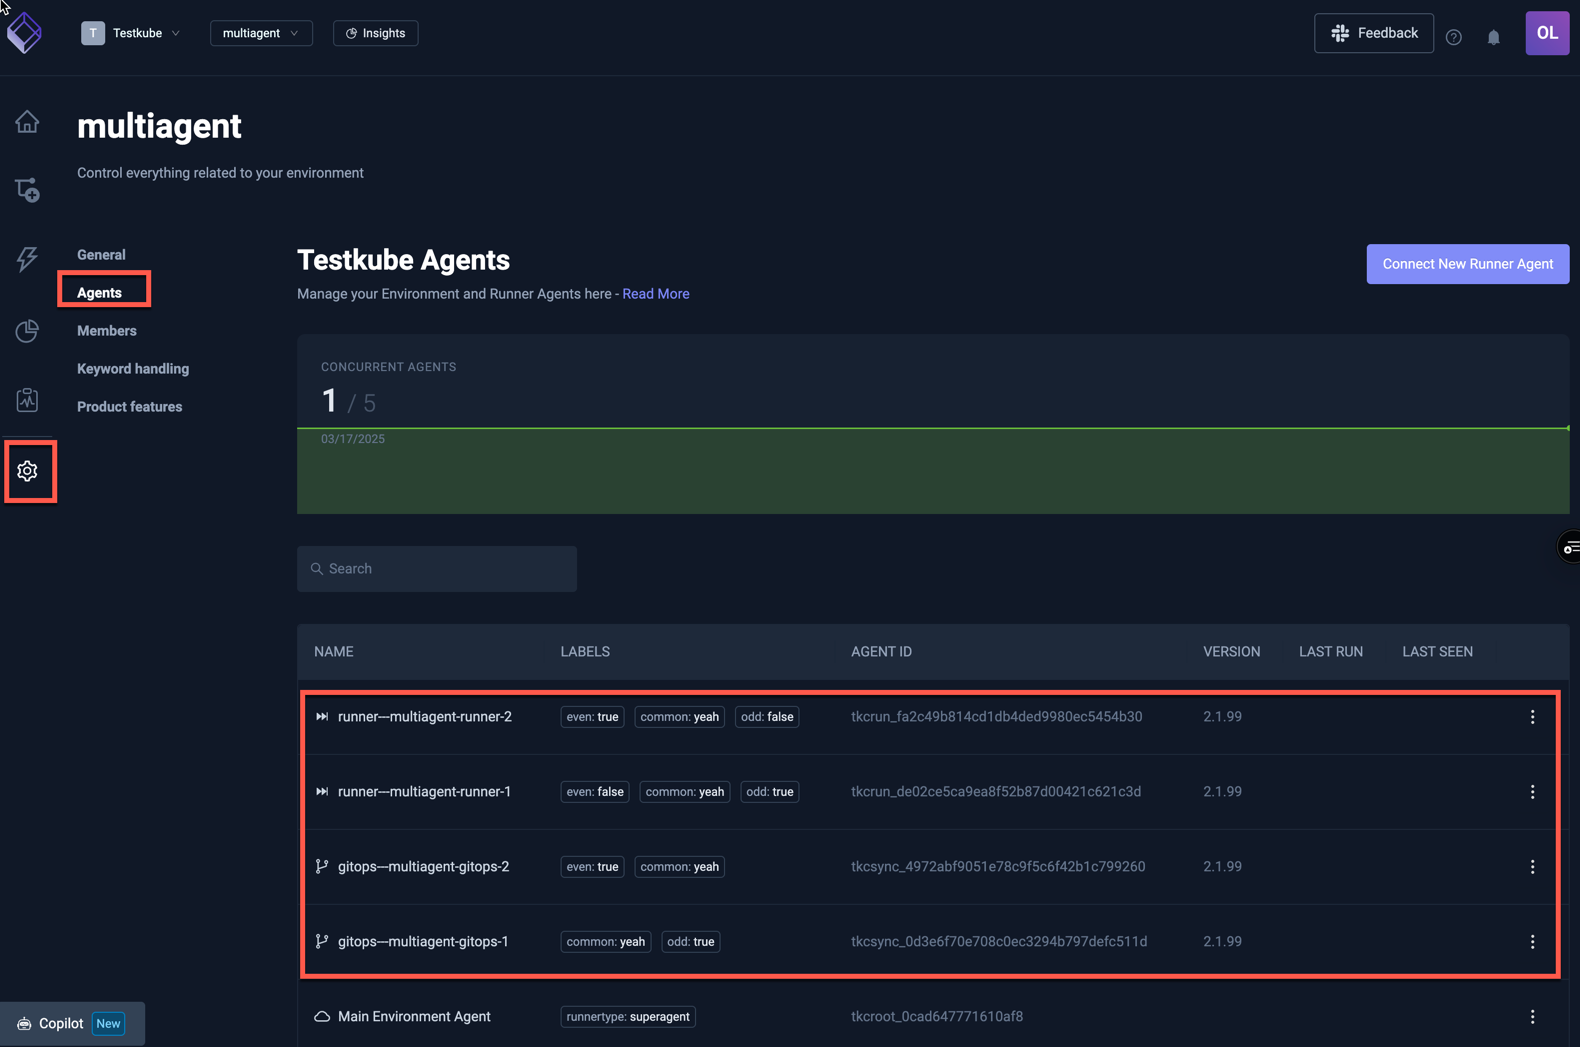
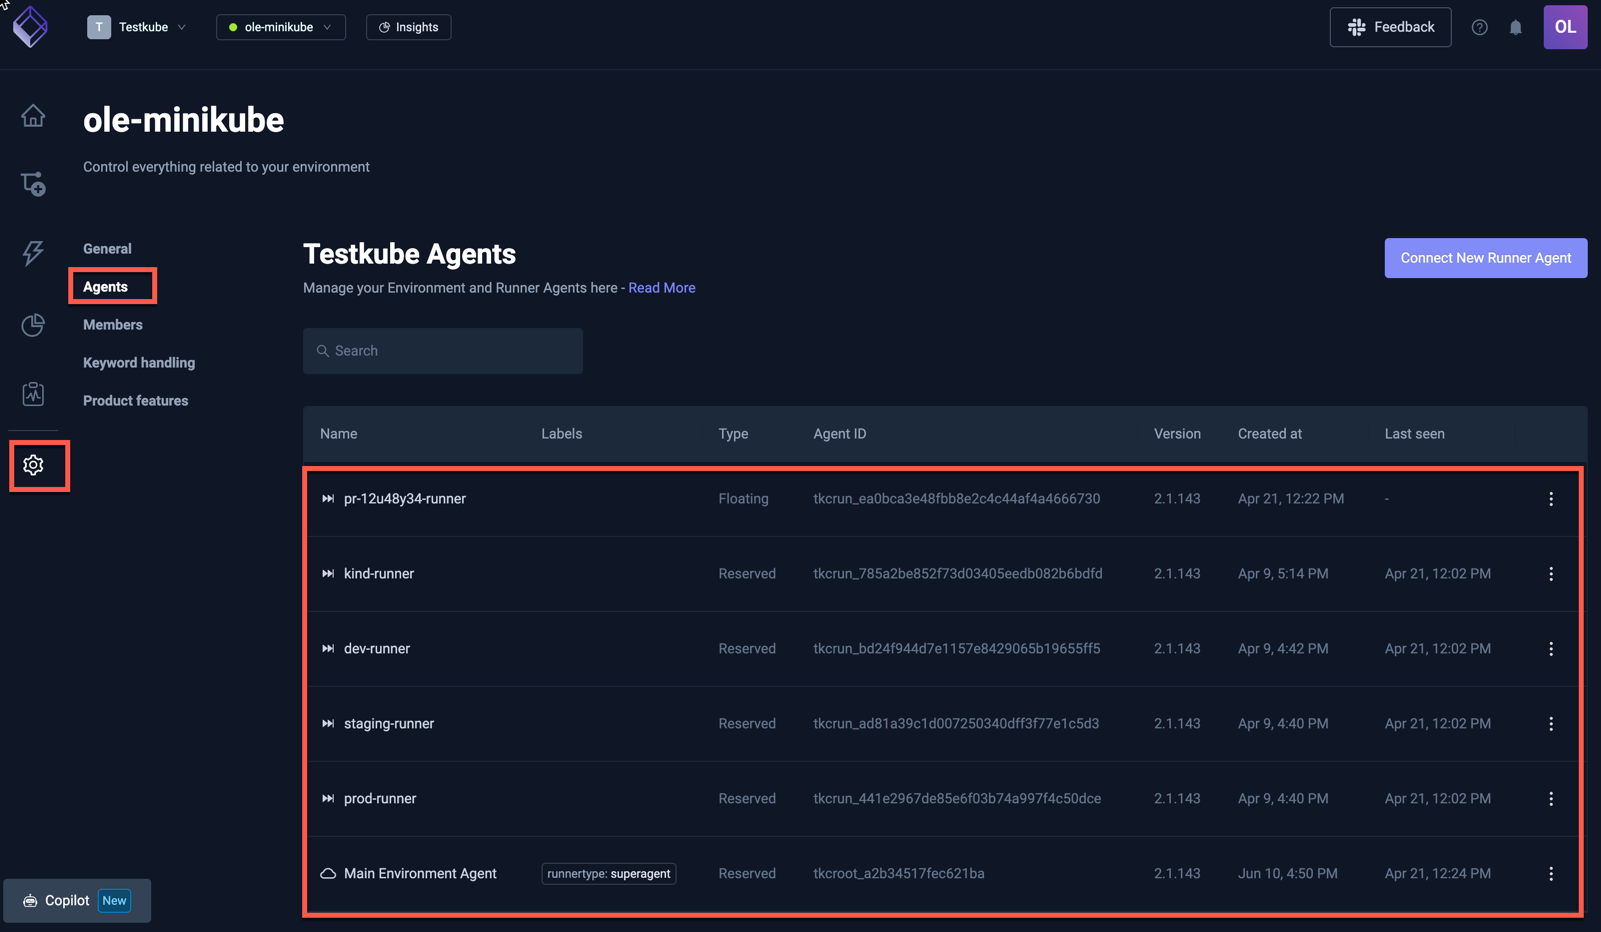
ongoing MA doc improvements..

diff --git a/docs/articles/install/multi-agent.md b/docs/articles/install/multi-agent.md
@@ -1,5 +1,4 @@
-# Multi-Agent Environments 
-
+# Multi-Agent Environments
 
 Testube 2.X introduces the concept of Multi-Agent Environments, which adds two major new capabilities:
 
@@ -225,6 +224,7 @@ definitions:
 
 - **Workflows** - you might want to ensure that a Workflow always runs on a Runner with a specific name or label - [Read More](/articles/test-workflows#runner-target).
 - **Workflow CronJobs** - you might want to target scheduled Workflow Executions to specific Runner(s) - [Read More](/articles/test-workflows#targeting-specific-runners-in-cronjobs).
+- **Workflow `execute` Steps** - you might want Composite Workflows to execute Workflows on specific Runner(s) - [Read More](/articles/test-workflows-test-suites#targeting-specific-runner-agents).
 - **Triggers** - you might want Kubernetes Event Triggers to trigger Workflow Executions on specific Runner(s) - [Read More](/articles/test-triggers#targeting-specific-runners).
 - **Execution CRDs** - you might want an `WorkflowExecution` CR to trigger Workflow Executions on specific Runner(s) - [Read More](/articles/test-executions#targeting-specific-runners).
 
@@ -277,9 +277,9 @@ Run on all Runners in the `region-us` group, except the `k8s-1.21-spain` Runner:
 
 ## Queuing of Workflow Executions
 
-When requesting to run a Workflow on a specific Runner, either by name or label(s), and no
+When requesting to run a Workflow on a specific Agent, either by name or label(s), and no
 matching Agent is available, Testkube will queue the execution of the Workflow indefinitely; once a corresponding
-Runner is available (barring licensing restrictions [described below](#licensing-and-implications)) the queued
+Agent is available (barring licensing restrictions [described below](#licensing-and-implications-on-workflow-executions)) the queued
 Workflow will be executed accordingly.
 
 You can abort queued executions using the corresponding [CLI Command](/cli/testkube-abort-testworkflowexecution) or
@@ -291,7 +291,7 @@ Each Testkube Environment requires a **[Standalone Agent](standalone-agent)** (a
 provides core functionality for Triggers, Webhooks, Prometheus metrics, etc.
 
 Standalone Agents are installed when initially creating an Environment and shown on the bottom of 
-the list of Agents with the label `runnertype: superagent` and work as a Global Runner (described below).
+the list of Agents with the label `runnertype: superagent` and work as a Global Runner (described above).
 
 You can target the Standalone Agent in several ways:
 
@@ -303,26 +303,45 @@ The ID is shown in the list of Agents (see below), the Name is the same `xxxx` p
 
 ![Standalone Agent ID](images/standalone-agent-id.png)
 
+## Fixed and Floating Licenses for Testkube Agents 
+
+Testkube Agents can be assigned either Fixed or Floating licenses.
+
+- Agents assigned a **Fixed License** can always run test independently at any time.
+  The Standalone Agent required for each Testkube Environment always requires a fixed license.
+- Agents assigned a **Floating license** share the ability to execute tests concurrently; if one agent with a floating license is executing tests, 
+  a second agent will queue test executions until the first agent is complete. If you, for example, purchase three floating licenses, 
+  three agents assigned a floating license will be able to run Workflows concurrently at any give time.
+
+Floating licenses are useful for ephemeral/sandbox clusters where you don't know in advance how many agents you will have at any 
+given point in time, and/or you don’t mind if the test executions get queued.
+
+:::note
+The agent limit for both Fixed and Floating Licenses is counted and enforced at the organization level, i.e., across all your environments.
+:::
+
+### Assigning Licenses to Agents
+
+Agents are by default assigned a fixed license (as in all the examples above), use the `--floating` argument to the Agent 
+creation command to assign a floating license:
+
+```sh
+# install temporary Runner Agent using a floating license
+$ testkube install runner pr-12u48y34-runner --create --floating
+```
+
+:::note
+If your current Testkube plan lacks sufficient licenses for the type of license you are assigning, the creation command will fail. 
+:::
+
 ## Migrating existing Environments
 
-If you have an existing Environment that already has Workflows being executed by CI/CD, CronJobs, Kubernetes Event Triggers,
-etc., these will continue to be executed on _any_ [Global Runner Agent](#global-runners) (including the required
-Standalone Agent) connected to your Environment unless you update the corresponding triggering commands / configuration to target
-a specific Runner Agent, either by name, group or label as described above.
+If you have an existing Environment created before the Multi-Agent functionality was introduced, which already has Workflows being 
+executed by CI/CD, CronJobs, Kubernetes Event Triggers, etc., these will continue to be executed on _any_ [Global Runner Agent](#global-runners) 
+(including the required Standalone Agent) connected to your Environment unless you update the corresponding triggering commands/configuration 
+to target a specific Runner Agent, either by name, group or label as described above.
 
 :::note
 Existing Environments that do not make the use of Runner Agents will continue to work as before, it is only
 when you start adding Runners that you might need to adjust how your existing Workflows are triggered by external sources.
 :::
-
-## Licensing and implications
-
-Runner Agents are licensed by concurrently active Runners, allowing you to add as many Runners as you want but only 
-run Workflows concurrently on as many Runners as you have licensed. Workflows that cannot be executed because of unavailable 
-Runners due to licensing constraints will be queued and executed as soon as a concurrent runner seat "frees up" to execute 
-the queued Workflow.
-
-Furthermore: 
-- The concurrent runner limit is counted and enforced at the organization level, i.e., across all your environments.
-- By default, you are given the same number of concurrent active runner seats as you have environments, please get in touch
-  if you need more to evaluate this functionality.

diff --git a/docs/articles/multi-agent-cli.md b/docs/articles/multi-agent-cli.md
@@ -2,8 +2,8 @@
 
 The Testkube CLI provides a number of commands to work with Runner Agents in [Multi-Agent Environments](/articles/install/multi-agent).
 
-:::note
-Multi-Agent Environments are under active development, and some of the commands shown below are subject to change.
+:::tip
+All commands below have a `--help` argument for printing all available arguments with a short description. 
 :::
 
 ## Prerequisites
@@ -21,7 +21,7 @@ Testkube Organization.
 The configuration of a new Runner for an Environment is broken into two steps:
 
 1. `create runner <name> <args>` - defines a runner in the Environment, but doesn't install anything in your cluster.
-2. `install runner <name> <args>` - installs the actual Runner Helm Chart  in the current cluster/namespace and connects 
+2. `install runner <name> <args>` - installs the actual Runner Helm Chart in the current cluster and connects 
    that installation a created Runner in the Environment. 
 
 :::note
@@ -35,7 +35,7 @@ The reason for this separation is to enable the following use-cases:
   the Helm Chart.
 
 :::tip
-See the corresponding [Delete and Uninstall](#deleting-and-uninstalling-a-runner-agent) commands below.
+See the [Delete and Uninstall](#deleting-and-uninstalling-a-runner-agent) commands below for corresponding removal actions.
 :::
 
 ### Creating new Runner Agents
@@ -76,6 +76,20 @@ you want to associate with the created Runner.
 ```sh
 $ testkube install runner staging-runner --create -l env=staging
 ```
+
+### Runner Namespaces
+
+Runners are installed in a namespace in your current cluster, the `install` command will either prompt you or you can specify 
+the namespace with the --namespace argument
+
+
+
+
+:::tip
+You can install multiple runners in the same namespace if needed, for example to target different applications 
+:::
+
+
 
 ### Runner Agent modes
 

diff --git a/docs/articles/test-workflows.md b/docs/articles/test-workflows.md
@@ -397,7 +397,7 @@ which Runner(s) a CronJob execution should run on. For example
 ...
 ```
 
-Will run this CronJob on any Global Runner with the `application: accounting` label, For more details,
+Will run this CronJob on any Global Runner with the `application: accounting` label, for more details,
 see our guide on [Runner Targeting](/articles/install/multi-agent#targeting-runners-in-testkube-resources).
 
 ## Tags
